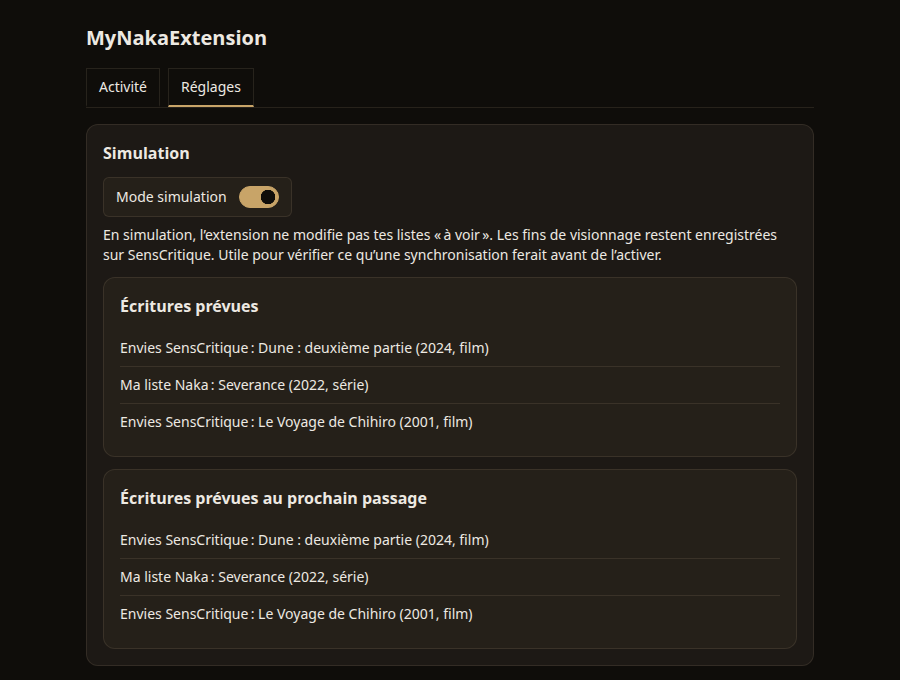
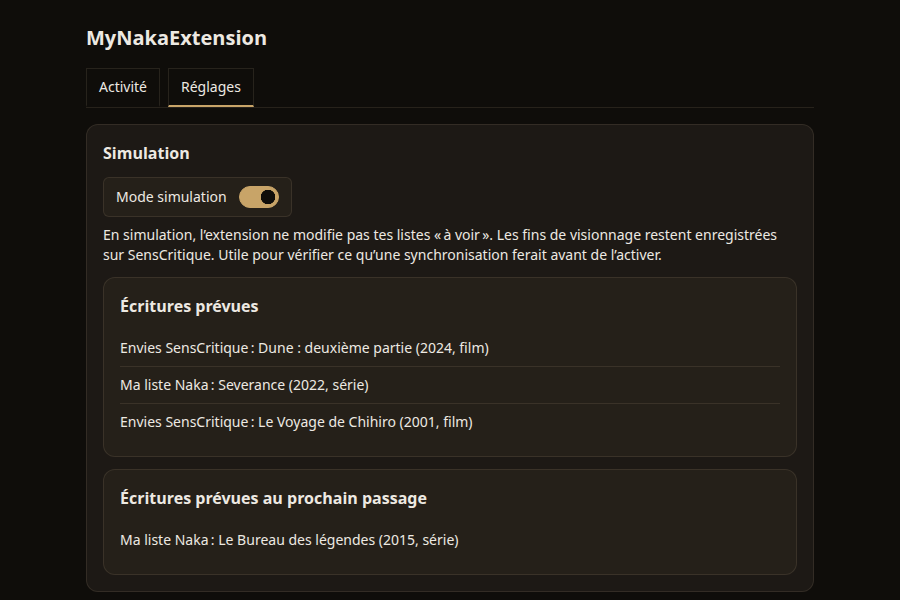
docs: correct the privacy policy and READMEs

diff --git a/PRIVACY.fr.md b/PRIVACY.fr.md
@@ -15,14 +15,14 @@ L’extension garde cinq entrées dans le stockage d’extension du navigateur (
 | --- | --- |
 | `state` | Les titres que l’extension a traités : les liens entre un titre Naka et sa fiche SensCritique, les titres terminés, les questions ouvertes (« quel titre est-ce ? », « retirer aussi ? »), les titres qu’elle n’a pas pu relier, et le contenu des deux listes « à voir » au dernier passage. |
 | `settings` | Tes réglages (mode simulation, seuils de fin, bloc sur la pause), les comptes liés (ton nom d’utilisateur SensCritique et l’identifiant de ton compte Naka, pour s’arrêter si un autre compte se connecte), le résultat de la dernière synchronisation et de la dernière fin de visionnage, et des compteurs d’écritures par heure. |
-| `ratings` | Les notes en attente (la liste « À noter »). |
+| `ratings` | Une fiche par titre terminé (100 au plus) : son titre, sa saison et son épisode, l’adresse de son affiche, les notes encore à donner (la liste « À noter »), les notes déjà données par l’extension, et le dernier échec. |
 | `ficheLinks` | Les liens faits à la main entre une fiche Naka et un titre SensCritique, pour l’affichage. |
 | `ficheUndo` | La dernière note donnée depuis une fiche Naka et ce qu’elle a remplacé, pour que « Annuler » le remette (10 minutes). |
 
 **Les jetons ne sont jamais enregistrés.** Le jeton de session SensCritique est lu dans ta session
-ouverte au moment de chaque requête et ne reste qu’en mémoire ; le jeton Naka reste dans le script de l’extension de l’onglet Naka.
-Aucun des deux n’est écrit dans le stockage, un journal, un message d’erreur ou un export. L’extension
-ne dépose aucun cookie qui lui soit propre.
+ouverte au moment de chaque requête et ne reste qu’en mémoire ; le jeton Naka reste dans le script de
+l’extension de l’onglet Naka. Aucun des deux n’est écrit dans le stockage, un journal, un message
+d’erreur ou un export. L’extension ne dépose aucun cookie qui lui soit propre.
 
 ## Où c’est enregistré
 
@@ -31,10 +31,16 @@ synchronisé vers d’autres appareils, et les sites web ne peuvent pas le lire.
 
 ## Où les données sont envoyées
 
-Seulement à `naka.cx` et `senscritique.com` (`www` et `apollo`), pour ton compte et pour faire ce que
-tu as demandé : lire tes listes, marquer un titre vu, donner une note, ajouter ou retirer un titre d’une
-liste. Ces requêtes utilisent ta session déjà ouverte sur chaque site, comme si tu les faisais toi-même.
-Rien n’est envoyé ailleurs, et rien n’est envoyé au développeur.
+À `naka.cx` et `senscritique.com`, pour ton compte et pour ce à quoi sert l’extension : lire tes
+listes, marquer un titre vu, donner une note, ajouter ou retirer un titre d’une liste. Ces requêtes
+utilisent ta session déjà ouverte sur chaque site, comme si tu les faisais toi-même.
+
+Les blocs dessinés dans l’onglet Naka affichent aussi des affiches, chargées depuis `image.tmdb.org` et
+`media.senscritique.com`. Ce sont de simples requêtes d’image : comme toute image d’une page web, elles
+montrent ton adresse IP et ton navigateur à ce site, et l’adresse de l’image désigne le titre. Elles ne
+portent aucune de tes données enregistrées.
+
+Rien n’est envoyé ailleurs, et rien n’arrive jamais au développeur.
 
 ## Combien de temps
 
@@ -47,11 +53,12 @@ Tout se fait sur la page de l’extension, onglet Réglages, partie « Donnée
 
 - **Accès et portabilité** : « Exporter mes données » télécharge un fichier JSON des cinq entrées
   ci-dessus.
-- **Effacement** : « Oublier les comptes liés » oublie les comptes liés ; « Réinitialiser » efface
-  l’état de synchronisation, les notes en attente, les liens d’affichage et l’enregistrement
-  d’annulation (tes réglages, le mode et les comptes liés sont gardés). Désinstaller l’extension efface
-  tout.
+- **Effacement** : « Oublier les comptes liés » oublie les comptes liés (la synchronisation réussie
+  suivante relie les comptes alors connectés) ; « Réinitialiser » efface l’état de synchronisation,
+  les fiches de note, les liens d’affichage et l’enregistrement d’annulation (tes réglages, le mode et
+  les comptes liés sont gardés). Désinstaller l’extension efface tout.
 
 ## Contact
 
-Pour une question sur cette politique : ouvre une issue sur le dépôt GitHub du projet.
+Pour une question sur cette politique : ouvre une issue sur le dépôt GitHub du projet. Les issues
+GitHub sont publiques : n’y colle ni un export, ni tes noms de compte, ni rien de personnel.

diff --git a/README.fr.md b/README.fr.md
@@ -45,12 +45,14 @@ L’extension n’est distribuée que sur GitHub (pas de boutique de navigateur)
 
 À l’installation, les écritures sont actives, mais la première synchronisation t’attend : clique sur
 « Resynchroniser » dans la page de l’extension (elle ne fait qu’ajouter, 10 écritures au plus). Active
-d’abord la simulation dans Réglages si tu veux voir ce qu’elle écrirait.
+d’abord la simulation dans Réglages si tu veux voir ce qu’elle écrirait : la simulation ne retient que
+les écritures de listes, les fins de visionnage restent écrites.
 
 ## Confidentialité
 
-Tout reste dans le stockage d’extension de ton navigateur. Les données ne vont qu’à naka.cx et à
-senscritique.com, pour ton compte ; rien ne va au développeur, ni statistiques, ni tiers. Les jetons de
+Tout reste dans le stockage d’extension de ton navigateur. Les requêtes vont à naka.cx et à
+senscritique.com pour ton compte, plus les affiches chargées depuis image.tmdb.org et
+media.senscritique.com ; rien n’arrive au développeur, ni statistiques, ni code tiers. Les jetons de
 session ne sont jamais enregistrés. Tu peux exporter ou effacer tes données depuis l’onglet Réglages.
 Détails : [PRIVACY.fr.md](PRIVACY.fr.md).
 
@@ -92,16 +94,20 @@ où il naît :
 - **Des parsers stricts partout.** Chaque message entre contextes et chaque valeur stockée passe par un
   parser qui reconstruit un objet neuf à partir des clés connues et refuse tout le reste. Une liste lue
   en partie arrête la synchronisation au lieu d’être prise pour vide.
-- **Des gardes sur les écritures.** Une écriture sur un site exige un vrai clic (`isTrusted`) sur un
-  bouton de l’extension, dans une racine fantôme fermée, au moins 0,4 s après l’apparition du bouton ;
-  chaque contrôle qui écrit est en plus ignoré s’il n’a pas été visible à l’écran pendant 300 ms
-  (IntersectionObserver v2), contre les clics cachés. Une fin ne compte que pour le titre en cours de
-  lecture, après une vraie lecture. Des budgets bornent ce qui passerait quand même : 10 écritures de
-  liste par synchronisation, 30 fins par heure, une fin en attente par titre. Le mode simulation liste
-  les écritures qu’une synchronisation ferait sans les faire.
+- **Des gardes sur les écritures.** Les notes, les réponses aux questions, les liaisons, les retraits
+  et l’annulation exigent un vrai clic (`isTrusted`) sur un contrôle de l’extension, dans une racine
+  fantôme fermée, au moins 0,4 s après son apparition, et visible à l’écran depuis 300 ms
+  (IntersectionObserver v2), contre les clics cachés. Les écritures automatiques sont bornées par des
+  budgets : une synchronisation des listes fait 10 écritures au plus, et la toute première attend un
+  clic ; une fin de visionnage ne compte que pour le titre en cours de lecture, après une vraie lecture,
+  30 par heure au plus et une en attente par titre. Le mode simulation liste les écritures de listes
+  qu’une synchronisation ferait sans les faire (les fins restent écrites).
 - **Échec fermé.** Un autre compte connecté sur l’un des deux sites arrête tout travail avant la moindre
-  écriture ; un refus pour trop de requêtes, une session expirée ou un délai dépassé coupent le même
-  type d’appel pour le reste du travail.
+  écriture. Un coupe-circuit cesse d’appeler un site pour le reste du travail après un refus pour trop de
+  requêtes (HTTP 429) ou une erreur de session sur l’un des deux sites, ou une requête SensCritique
+  qui dépasse son délai.
+- **Permissions minimales.** `storage`, et l’accès aux seuls hôtes `naka.cx`, `www.senscritique.com` et
+  `apollo.senscritique.com`. Aucun code distant, aucun `eval`.
 
 La logique pure (seuils, rapprochement des titres, synchronisation, fins de visionnage) vit dans
 `src/core/`, à part de tout ce qui touche `chrome.*` ou une page, et se teste sans navigateur.

diff --git a/PRIVACY.md b/PRIVACY.md
@@ -15,7 +15,7 @@ The extension keeps five entries in the browser's extension storage (`chrome.sto
 | --- | --- |
 | `state` | The titles the extension handled: the links between a Naka title and its SensCritique page, the titles you finished, the open questions ("which title is this?", "remove it too?"), the titles it could not link, and what both watchlists held at the last sync. |
 | `settings` | Your settings (simulation mode, finish thresholds, pause block), the linked accounts (your SensCritique username and your Naka account identifier, used to stop if another account signs in), the result of the last sync and of the last finish, and hourly write counters. |
-| `ratings` | The ratings waiting to be given (the « À noter » list). |
+| `ratings` | One card per finished title (100 at most): its title, season and episode, poster address, the ratings still to give (the « À noter » list), the ratings already given through the extension, and the last failure. |
 | `ficheLinks` | Links between a Naka title page and a SensCritique title that you made by hand, for display. |
 | `ficheUndo` | The last rating given from a Naka title page and what it replaced, so « Annuler » can put it back (10 minutes). |
 
@@ -30,10 +30,16 @@ devices and is not readable by websites.
 
 ## Where data is sent
 
-Only to `naka.cx` and `senscritique.com` (`www` and `apollo`), on your behalf and to do what you asked:
-read your watchlists, mark a title as seen, give a rating, add or remove a title from a list. These
-requests use your existing session on each site, exactly as if you made them yourself. Nothing is sent
-anywhere else, and nothing is sent to the developer.
+To `naka.cx` and `senscritique.com`, on your behalf and to do what the extension is for: read your
+watchlists, mark a title as seen, give a rating, add or remove a title from a list. These requests use
+your existing session on each site, exactly as if you made them yourself.
+
+The blocks drawn in the Naka tab also show posters, loaded from `image.tmdb.org` and
+`media.senscritique.com`. These are plain image requests: like any image on a web page, they reveal
+your IP address and browser to that host, and the image's address identifies the title. They carry
+none of your stored data.
+
+Nothing is sent anywhere else, and nothing ever reaches the developer.
 
 ## How long it is kept
 
@@ -45,10 +51,12 @@ below), or until you remove the extension, which deletes its storage.
 All on the extension's page, Réglages tab, « Données enregistrées » section:
 
 - **Access and portability**: « Exporter mes données » downloads a JSON file with the five entries above.
-- **Erasure**: « Oublier les comptes liés » forgets the linked accounts; « Réinitialiser » erases the
-  sync state, the ratings waiting, the display links and the undo record (your settings, the mode and
-  the linked accounts are kept). Removing the extension erases everything.
+- **Erasure**: « Oublier les comptes liés » forgets the linked accounts (the next successful sync links
+  the accounts then signed in again); « Réinitialiser » erases the sync state, the rating cards, the
+  display links and the undo record (your settings, the mode and the linked accounts are kept).
+  Removing the extension erases everything.
 
 ## Contact
 
-Questions about this policy: open an issue on the project's GitHub repository.
+Questions about this policy: open an issue on the project's GitHub repository. GitHub issues are
+public: do not paste an export, your account names or anything else personal into one.

diff --git a/README.md b/README.md
@@ -45,13 +45,14 @@ The extension is distributed on GitHub only (no browser store).
 
 On a fresh install, writes are on, but the first sync waits for you: click « Resynchroniser » on the
 extension's page (it adds only, at most 10 writes). Turn on simulation in Réglages first if you want to
-see what it would write.
+see what it would write: simulation holds back list writes only, finishes are still written.
 
 ## Privacy
 
-Everything stays in your browser's extension storage. Data goes only to naka.cx and senscritique.com,
-on your behalf; nothing goes to the developer, no analytics, no third party. Session tokens are never
-stored. You can export or erase your data from the Réglages tab. Details: [PRIVACY.md](PRIVACY.md).
+Everything stays in your browser's extension storage. Requests go to naka.cx and senscritique.com on
+your behalf, plus poster images from image.tmdb.org and media.senscritique.com; nothing reaches the
+developer, no analytics, no third-party code. Session tokens are never stored. You can export or erase
+your data from the Réglages tab. Details: [PRIVACY.md](PRIVACY.md).
 
 ## How it works
 
@@ -88,14 +89,18 @@ you already have, and splits the work across three contexts so that each secret 
 - **Strict parsers everywhere.** Every message between contexts and every stored value goes through a
   parser that rebuilds a fresh object from known keys and refuses anything else. A list read
   incompletely stops the sync instead of being taken as empty.
-- **Write guards.** A write to a site needs a real (`isTrusted`) click on one of the extension's own
-  buttons, in a closed shadow root, at least 0.4 s after the button appeared; every write control is
-  also ignored unless it has been visibly on screen for 300 ms (IntersectionObserver v2), against hidden
-  clicks. A finish counts only for the title playing, after real playback. Budgets cap the damage of
-  anything that slips through: 10 list writes per sync, 30 finishes per hour, one pending finish per
-  title. Simulation mode lists the writes a sync would make without making them.
-- **Fail closed.** Another account signed in on either site stops every job before it writes; a rate-limit
-  refusal, an expired session or a timeout trips a circuit breaker for the rest of the job.
+- **Write guards.** Ratings, answers to questions, links, removals and undo need a real (`isTrusted`)
+  click on one of the extension's own controls, in a closed shadow root, at least 0.4 s after it
+  appeared, and visibly on screen for 300 ms (IntersectionObserver v2), against hidden clicks. The
+  automatic writes are capped by budgets: a list sync makes at most 10 writes, and the very first sync
+  waits for a click; an end of viewing counts only for the title playing, after real playback, at most
+  30 per hour and one pending per title. Simulation mode lists the list writes a sync would make
+  without making them (finishes are still written).
+- **Fail closed.** Another account signed in on either site stops every job before it writes. A circuit
+  breaker stops calling a site for the rest of the job after a rate limit (HTTP 429) or a session error
+  on either site, or a timed-out SensCritique request.
+- **Minimal permissions.** `storage`, and host access to `naka.cx`, `www.senscritique.com` and
+  `apollo.senscritique.com` only. No remote code, no `eval`.
 
 Pure logic (thresholds, title matching, list sync, finish handling) lives in `src/core/`, apart from
 anything that touches `chrome.*` or a page, and is tested without a browser.
